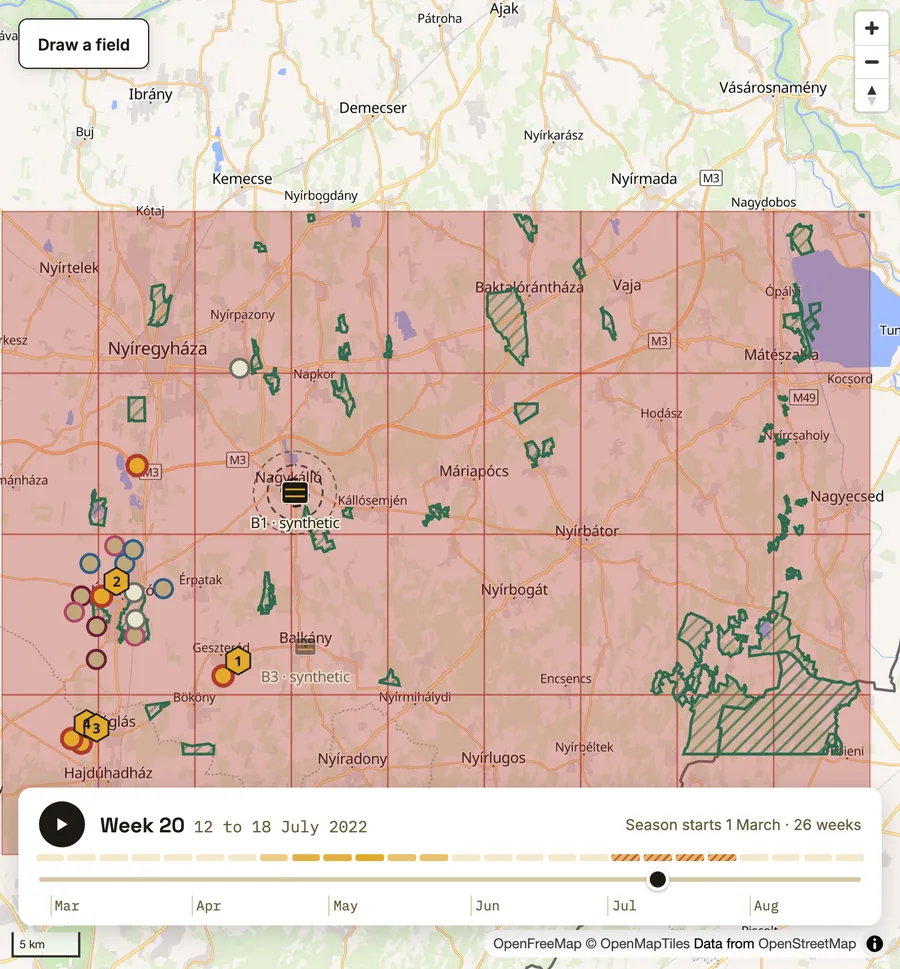
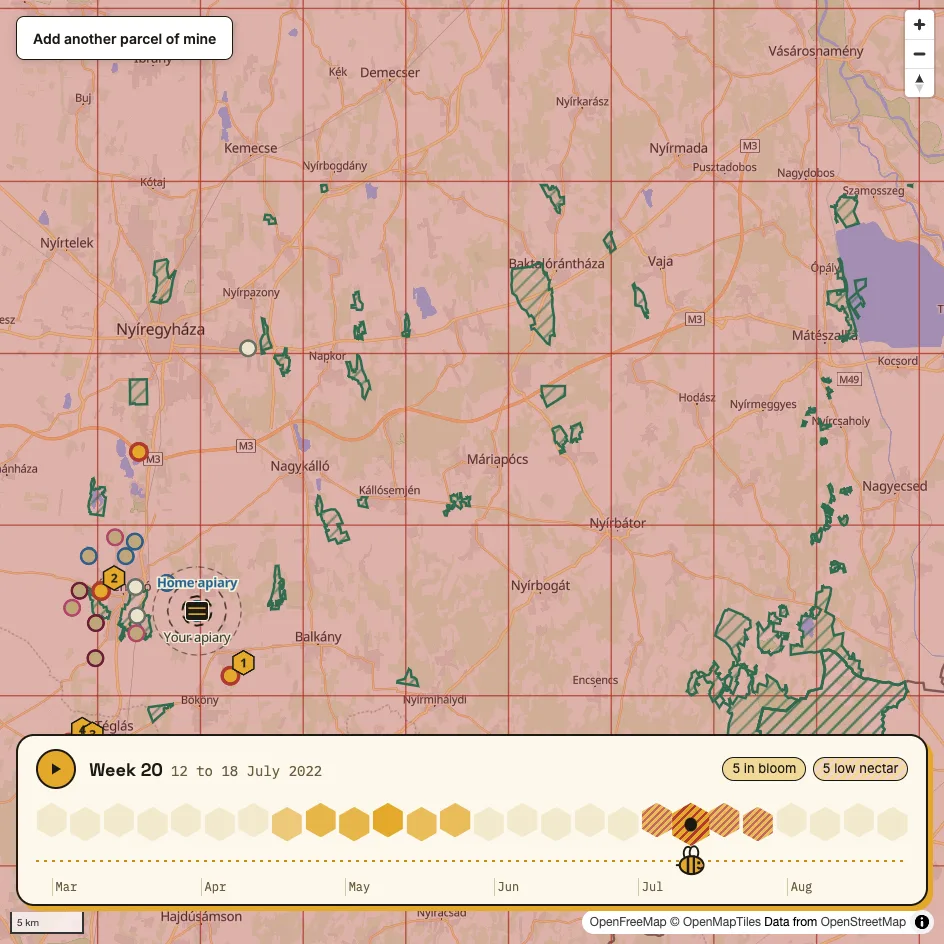
docs(frontend): retake guide screenshots for the new design
Replace the overview, week slider, both season maps, phone view,
sign-in and placements screenshots, and describe the honeycomb week
slider in the guide.

diff --git a/frontend/src/pages/Guide/Guide.tsx b/frontend/src/pages/Guide/Guide.tsx
@@ -70,7 +70,7 @@ const TOUR = [
   ],
   [
     "Week slider",
-    "Bottom. 26 weeks from 1 March; the strip above it shows how many parcels bloom.",
+    "Bottom. 26 weeks from 1 March; the honeycomb above it shows how many parcels bloom.",
   ],
   [
     "Side panel",
@@ -314,8 +314,8 @@ function SignIn() {
           <Shot
             src="signin.webp"
             w={1400}
-            h={783}
-            alt="The sign-in page: three steps on the left, and a card with Sign in and Register tabs, a Continue as demo beekeeper button, email and password fields and the demo note."
+            h={735}
+            alt="The sign-in page: a bee with a heart and three steps on the left, and a card with Sign in and Register tabs, a Continue as demo beekeeper button, email and password fields and the demo note."
           />
         }
       >
@@ -388,15 +388,15 @@ function Features() {
         <div className={styles.pair}>
           <Shot
             src="map-2022.webp"
-            w={900}
-            h={969}
+            w={944}
+            h={944}
             alt="Map of week 20 in 2022: red soil moisture cells and hatched sunflower parcels."
             caption="2022, week 20: dry soil, nectar at risk."
           />
           <Shot
             src="map-2024.webp"
-            w={900}
-            h={969}
+            w={944}
+            h={944}
             alt="Map of week 20 in 2024: the same parcels with normal bloom."
             caption="2024, week 20: the same fields."
           />
@@ -406,19 +406,21 @@ function Features() {
       <Section id="week" title="Week slider">
         <Shot
           src="timeline.webp"
-          w={1504}
-          h={242}
-          alt="The week slider at week 20, 12 to 18 July 2022, with a strip of bloom counts and month ticks from March to August."
+          w={1864}
+          h={374}
+          alt="The week slider at week 20, 12 to 18 July 2022: a row of honeycomb cells, one per week, with the July weeks hatched red for low nectar; a bee handle on a dashed line under the selected week; month ticks from March to August; and the tags 5 in bloom and 5 low nectar."
         />
         <ul className={styles.points}>
           <li>
-            The season runs 26 weeks from 1 March. Drag the handle, use the
-            arrow keys, or press play to watch the season unfold.
+            The season runs 26 weeks from 1 March. Drag the bee, use the arrow
+            keys, or press play to watch the season unfold.
           </li>
           <li>
-            The strip above the slider shows how many parcels bloom each week.
-            Darker yellow means more parcels; a hatched week has parcels flagged
-            low nectar.
+            The honeycomb above the slider has one cell per week. Deeper honey
+            means more parcels in bloom; a red-hatched cell has parcels flagged
+            low nectar. The selected week&apos;s cell is larger, with a dark
+            centre, and the tags beside the date count its parcels in bloom and
+            on low nectar.
           </li>
           <li>
             Matches, parcel details and the map all follow the selected week.
@@ -612,7 +614,9 @@ function Features() {
               <strong>Go to the first bloom week</strong> moves the slider
               there.
             </li>
-            <li>The week strip counts only the chosen honey&apos;s parcels.</li>
+            <li>
+              The week honeycomb counts only the chosen honey&apos;s parcels.
+            </li>
           </ul>
           <p className={styles.note}>
             The honey kind names the parcel&apos;s bloom. The map does not
@@ -909,7 +913,7 @@ function Features() {
         <Shot
           src="placements.webp"
           w={1400}
-          h={719}
+          h={680}
           alt="My placements: a March to August timeline with the requested stay on P15, black locust, and a table with parcel, crop, service, stay, colonies, benefit relative to the alternative, request date, status Requested · demo and a Cancel button."
         />
         <p className={page.body}>
